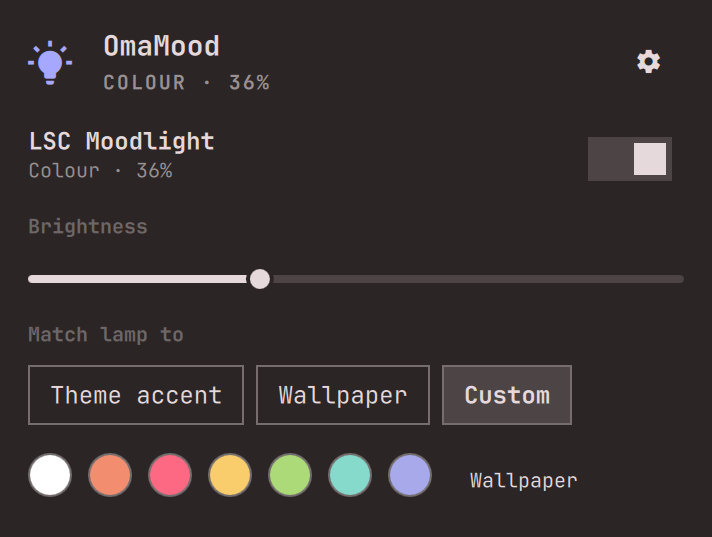
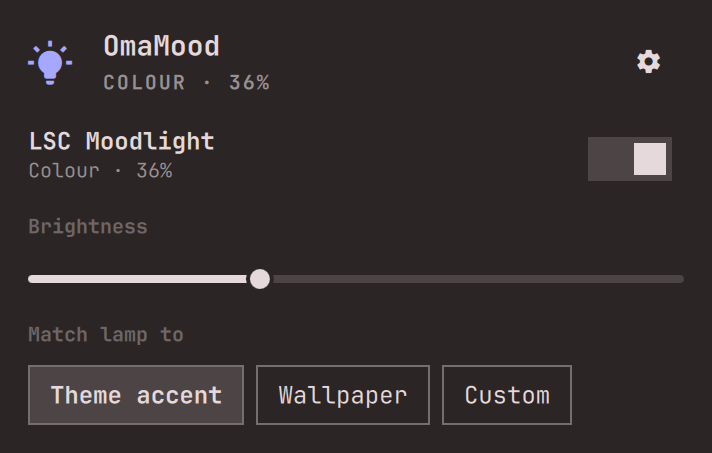
README: screenshot with the default, Theme accent

diff --git a/README.md b/README.md
@@ -5,7 +5,7 @@ brightness and colour. The lamp can match your wallpaper or theme accent every
 time you change themes, and it switches off while the computer sleeps, coming
 back as it was when it wakes.
 
-<p align="center"><img src="docs/screenshot.png" alt="The OmaMood panel: settings icon, lamp power, Brightness slider, Match lamp to Theme accent / Wallpaper / Custom, and colour swatches" width="420"></p>
+<p align="center"><img src="docs/screenshot.png" alt="The OmaMood panel: settings icon, lamp power, Brightness slider, and Match lamp to with Theme accent selected" width="420"></p>
 
 - **Local.** Commands go straight to the lamp over your home network. The cloud
   is used once during setup, to fetch the lamp's key, and logged out right after.
